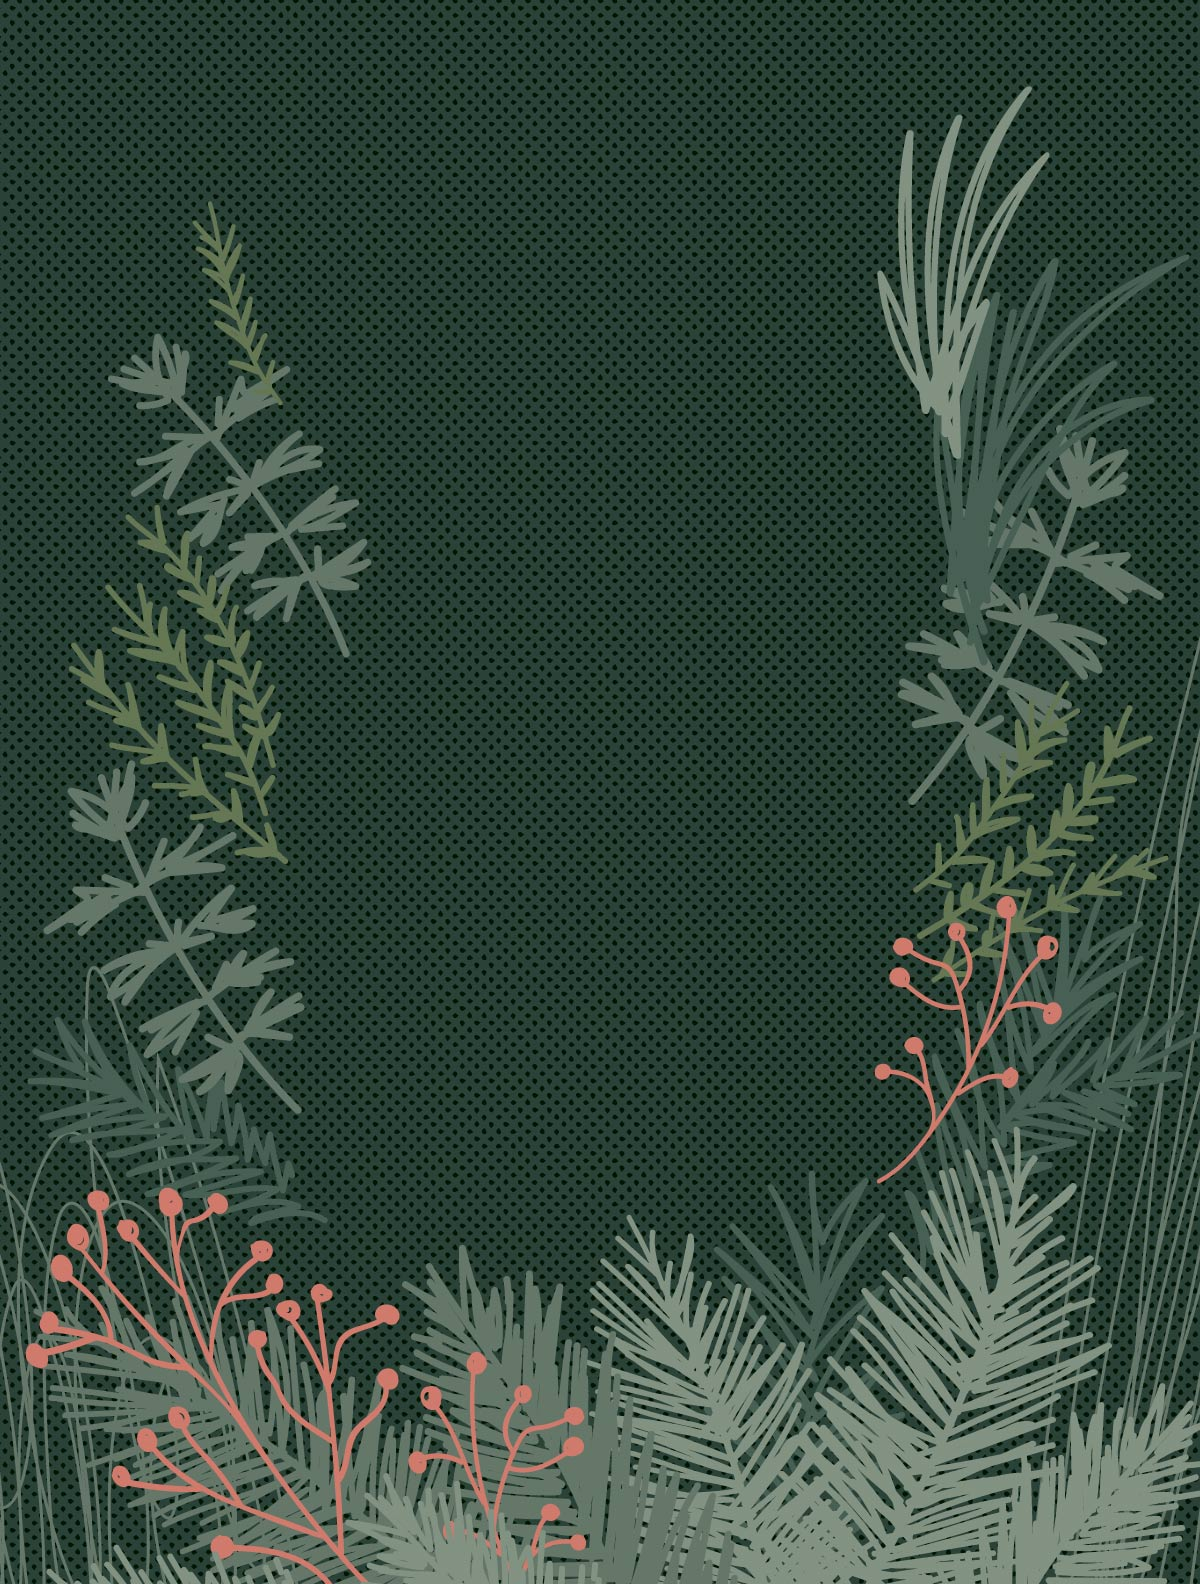
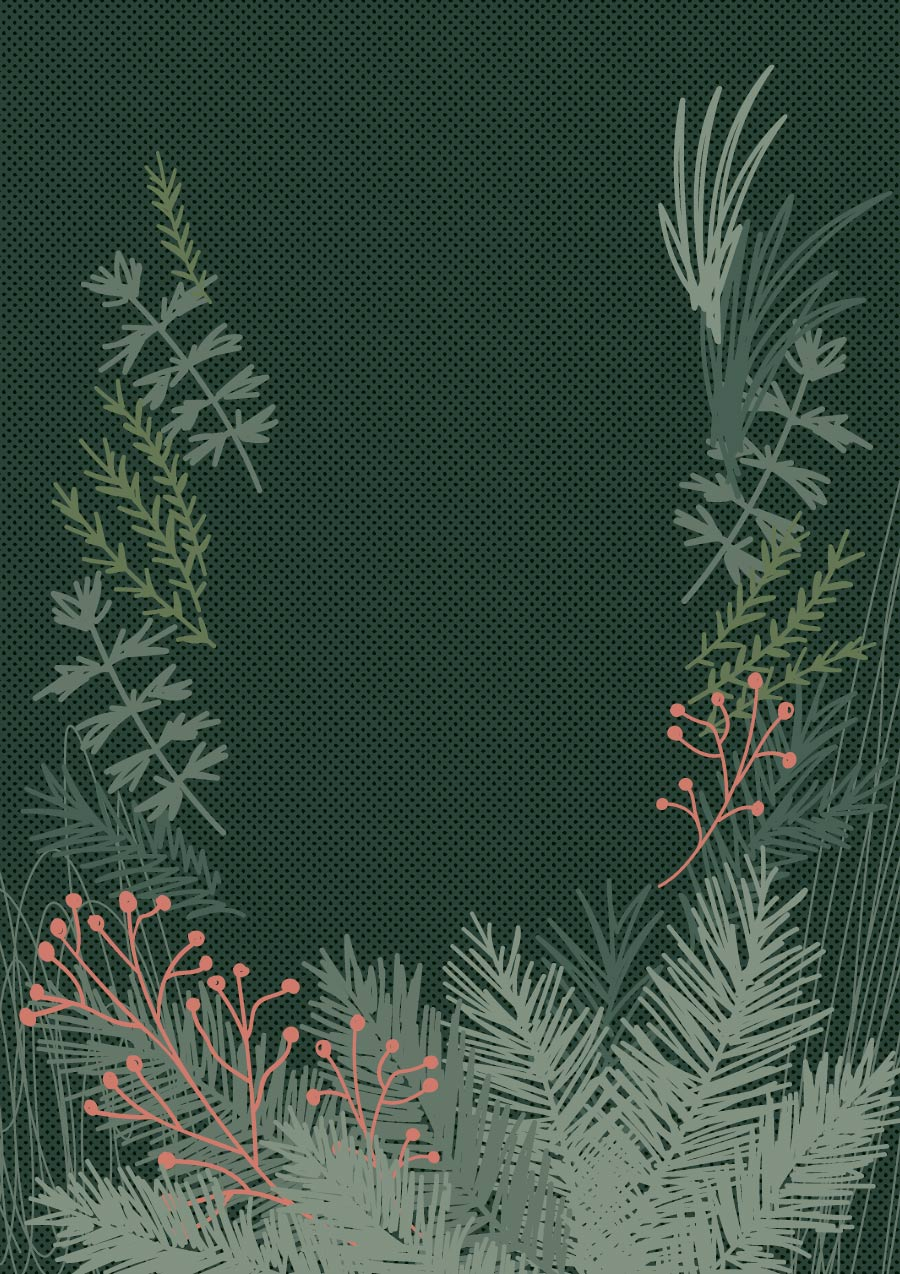
2026 faculty & staff holiday invitation - swap out bg in mjml

diff --git a/president/2026_holiday_invite/index.html b/president/2026_holiday_invite/index.html
@@ -170,10 +170,10 @@
 <body style="word-spacing:normal;background-color:#173b30;">
   <div style="display:none;font-size:1px;color:#ffffff;line-height:1px;max-height:0px;max-width:0px;opacity:0;overflow:hidden;">Friday, December 11, 4–6 p.m. in the Kate Buchanan Room</div>
   <div aria-label="You’re Invited: Faculty and Staff Holiday Party" aria-roledescription="email" role="article" lang="und" dir="auto" style="word-spacing:normal;background-color:#173b30;">
-    <!--[if mso | IE]><table align="center" border="0" cellpadding="0" cellspacing="0" class="" role="presentation" style="width:600px;" width="600" bgcolor="#173b30" ><tr><td style="line-height:0px;font-size:0px;mso-line-height-rule:exactly;"><v:rect style="width:600px;" xmlns:v="urn:schemas-microsoft-com:vml" fill="true" stroke="false"><v:fill origin="0, -0.5" position="0, -0.5" src="https://mailings.humboldt.edu/president/2026_holiday_invite/invite-background.png" color="#173b30" type="frame" size="100%,100%" /><v:textbox style="mso-fit-shape-to-text:true" inset="0,0,0,0"><![endif]-->
-    <div style="background:#173b30 url('https://mailings.humboldt.edu/president/2026_holiday_invite/invite-background.png') center top / 100% 100% no-repeat;background-position:center top;background-repeat:no-repeat;background-size:100% 100%;margin:0px auto;max-width:600px;">
+    <!--[if mso | IE]><table align="center" border="0" cellpadding="0" cellspacing="0" class="" role="presentation" style="width:600px;" width="600" bgcolor="#173b30" ><tr><td style="line-height:0px;font-size:0px;mso-line-height-rule:exactly;"><v:rect style="width:600px;" xmlns:v="urn:schemas-microsoft-com:vml" fill="true" stroke="false"><v:fill origin="0, -0.5" position="0, -0.5" src="https://mailings.humboldt.edu/president/2026_holiday_invite/invite-background.jpg" color="#173b30" type="frame" size="100%,100%" /><v:textbox style="mso-fit-shape-to-text:true" inset="0,0,0,0"><![endif]-->
+    <div style="background:#173b30 url('https://mailings.humboldt.edu/president/2026_holiday_invite/invite-background.jpg') center top / 100% 100% no-repeat;background-position:center top;background-repeat:no-repeat;background-size:100% 100%;margin:0px auto;max-width:600px;">
       <div style="line-height:0;font-size:0;">
-        <table align="center" background="https://mailings.humboldt.edu/president/2026_holiday_invite/invite-background.png" border="0" cellpadding="0" cellspacing="0" role="presentation" style="background:#173b30 url('https://mailings.humboldt.edu/president/2026_holiday_invite/invite-background.png') center top / 100% 100% no-repeat;background-position:center top;background-repeat:no-repeat;background-size:100% 100%;width:100%;">
+        <table align="center" background="https://mailings.humboldt.edu/president/2026_holiday_invite/invite-background.jpg" border="0" cellpadding="0" cellspacing="0" role="presentation" style="background:#173b30 url('https://mailings.humboldt.edu/president/2026_holiday_invite/invite-background.jpg') center top / 100% 100% no-repeat;background-position:center top;background-repeat:no-repeat;background-size:100% 100%;width:100%;">
           <tbody>
             <tr>
               <td style="direction:ltr;font-size:0px;padding:0;text-align:center;">
